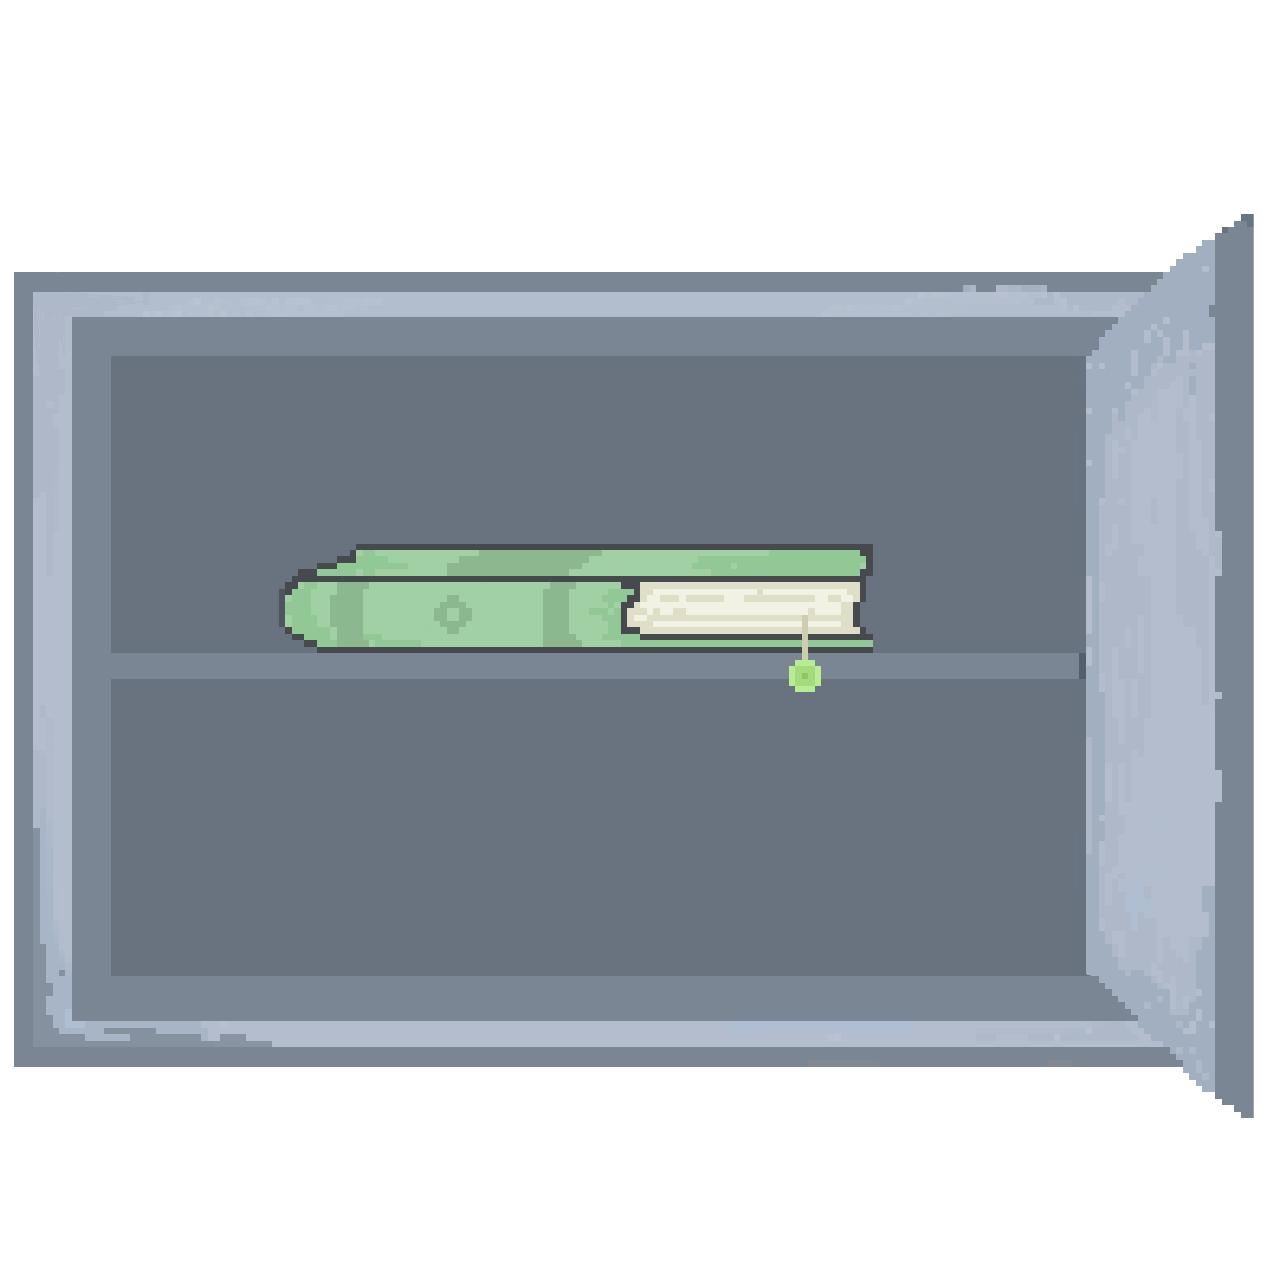
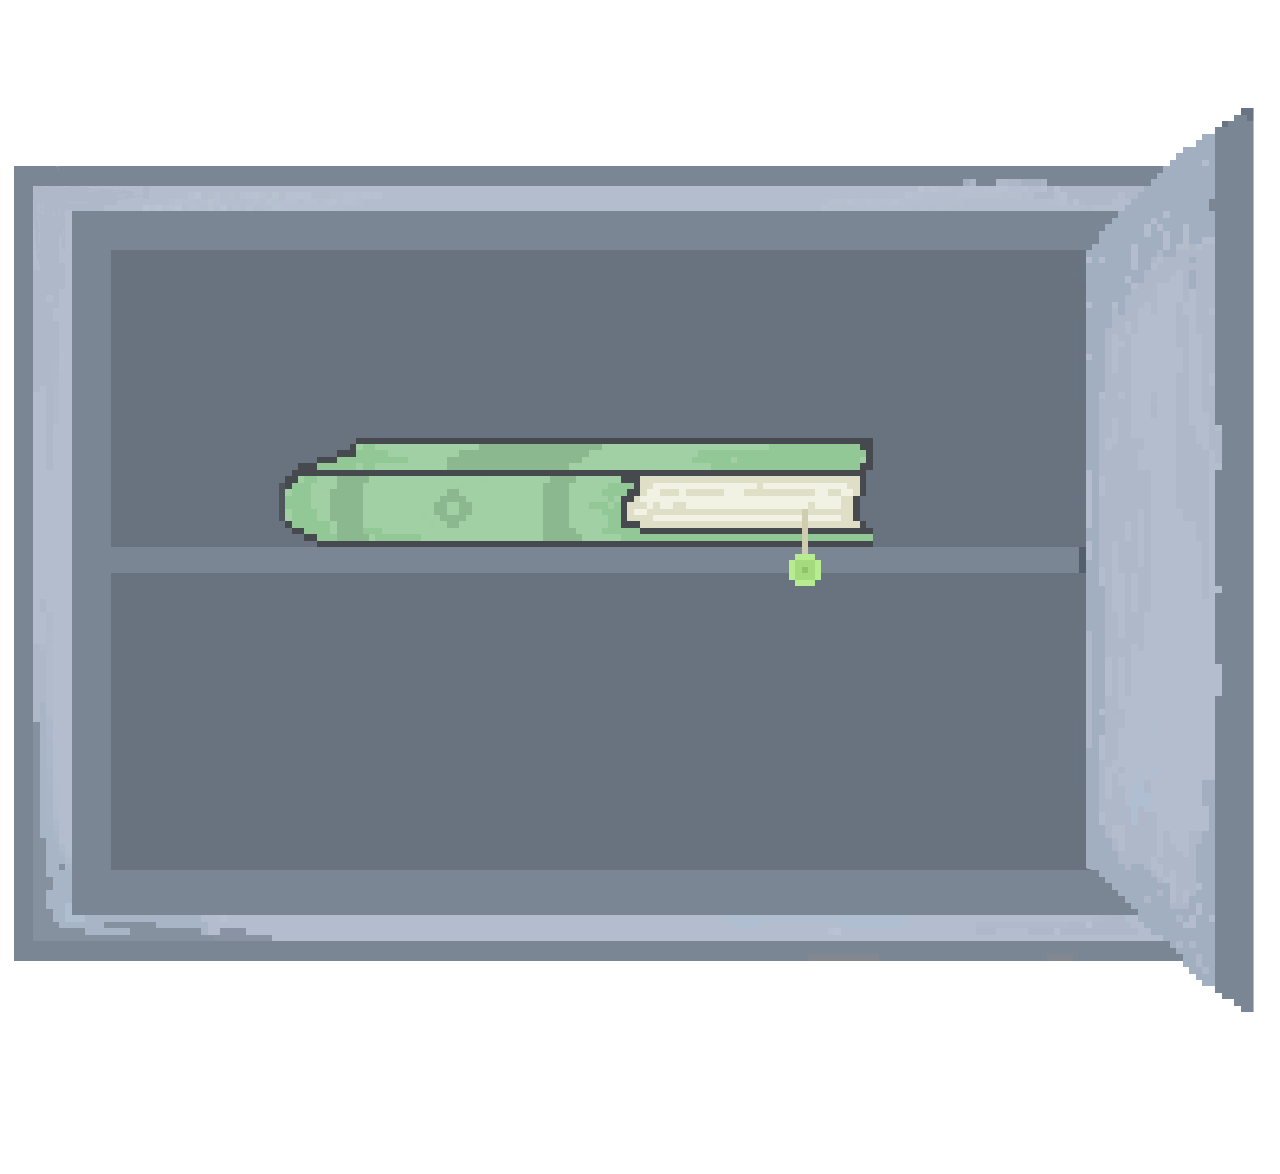
completed safe interactions

diff --git a/dist/clovers.html b/dist/clovers.html
@@ -4,7 +4,7 @@
     function launchApplication(jnlpfile) {
         dtjava.launch(            {
                 url : 'clovers.jnlp',
[2 lines of base64/hex data omitted]
             },
             {
                 javafx : '8.0+'
@@ -24,7 +24,7 @@
                 placeholder : 'javafx-app-placeholder',
                 width : '800',
                 height : '600',
[2 lines of base64/hex data omitted]
             },
             {
                 javafx : '8.0+'

diff --git a/src/clovers/Clovers.java b/src/clovers/Clovers.java
@@ -182,12 +182,13 @@ public class Clovers extends Application {
         safe.setY(50);
 
         safeInput.setLayoutX(687);
-        safeInput.setLayoutY(194);
+        safeInput.setLayoutY(192);
 
         safeInput.setPrefWidth(119);
         safeInput.setPrefHeight(32);
 
-        safeInput.setStyle("-fx-background-color:transparent;");
+        safeInput.setFont(bFont);
+        safeInput.setStyle("-fx-background-color:#7393B3;-fx-text-fill: white;");
 
         Rectangle dialogue = new Rectangle(250, 470, 800, 160);
         dialogue.setFill(Color.BLACK);
@@ -247,14 +248,27 @@ public class Clovers extends Application {
         timerAnim.getKeyFrames().add(timerFrame);
         timerAnim.setCycleCount(Timeline.INDEFINITE);
         timerAnim.play();
-
+        
+Rectangle safeTest=new Rectangle(196,94);
+ safeTest.setLayoutX(310);
+safeTest.setLayoutY(517);
+        safeTest.setFill(Color.TRANSPARENT);
+        safeTest.setStroke(Color.RED);
+        Rectangle fridge = new Rectangle(838,120,214,484); 
+    
+        fridge.setFill(Color.TRANSPARENT);
+        fridge.setStroke(Color.RED);
+        
+        
         Pane topBar = new Pane(menu, life, life2, life3, timer, timerText);
+       
+    fridge.setLayoutX(838);
+        fridge.setLayoutY(120);
         Pane pane = new Pane();
 
+        //fridge.layoutXProperty().bind(observable);
         pane.getChildren().addAll(imageView, ghost, topBar);
-      
-                               
-        
+
         StackPane stack = new StackPane();
         Pane pane2 = new Pane();
 
@@ -264,6 +278,8 @@ public class Clovers extends Application {
         pane2.getChildren().addAll(prev, polaroid, next);
         stack.getChildren().addAll(pane, topBar);
 
+        
+        
         // stack.setClip(rectangle);
         // stack.setLayoutX(0);
         //  pane.getChildren().addAll(imageView, ghost);
@@ -272,6 +288,7 @@ public class Clovers extends Application {
         scene.setOnMousePressed(e -> {
 
             System.out.println("X: " + e.getX() + "Y: " + e.getY());
+            System.out.println("ghostX: " + ghost.getLayoutX() + "ghostY: " + ghost.getLayoutY());
         });
 
         b1.setOnAction(e2 -> {
@@ -305,6 +322,37 @@ public class Clovers extends Application {
             safeInput.setText(safeInput.getText() + "0       ");
         });
         GridPane dial = new GridPane();
+
+        dial.addRow(0, b1, b2, b3);
+        dial.addRow(1, b4, b5, b6);
+        // dial.addRow(2, b7, b8, b9);
+        // dial.add(b0, 1, 3);
+
+        dial.setLayoutX(695);
+        dial.setLayoutY(235);
+
+        b0.setLayoutX(738);
+        b0.setLayoutY(359);
+        b7.setLayoutX(696);
+        b7.setLayoutY(322);
+        b8.setLayoutX(738);
+        b8.setLayoutY(322);
+        b9.setLayoutX(780);
+        b9.setLayoutY(322);
+
+        b1.setFont(bFont);
+        b2.setFont(bFont);
+        b3.setFont(bFont);
+        b4.setFont(bFont);
+        b5.setFont(bFont);
+        b6.setFont(bFont);
+        b7.setFont(bFont);
+        b8.setFont(bFont);
+        b9.setFont(bFont);
+        b0.setFont(bFont);
+
+        dial.setHgap(20);
+        dial.setVgap(20);
         scene.setOnKeyPressed(e -> {
 
             switch (e.getCode()) {
@@ -343,64 +391,44 @@ public class Clovers extends Application {
 //                     
 //
 //                    //fridge interaction
-                    if (ghost.getX() >= 430.0 && ghost.getX() <= 680.0 && ghost.getY() <= 250.0 && ghost.getY() >= 0.0) {
+                    if (ghost.getX() + 20 >= 530.0 && ghost.getX() + 20 <= 820.0 && ghost.getY()  <= 523.0 && ghost.getY() >= 120.0) {
+                        //if (ghost.getBoundsInParent().intersects(fridge.getBoundsInParent())) {
                         System.out.println("near fridge");
                         polaroid.setImage(img.get(currentImg));
 
                         stack.getChildren().addAll(pane2);
+                        
+                        stack.getChildren().remove(safeInput);
 
                     }
 //cabinet interaction
-                    if (ghost.getX() >= 50 && ghost.getX() <= 280 && ghost.getY() <= 250 && ghost.getY() >= 230) {
-                        
-                        if (imageView.getImage() != bg && imageView.getImage() == bgCabinet) {//cabinet open
-                             if (safe.getImage() == safeOpen) {//if the safe is open
+                   // if (ghost.getX()+20 >= 50 && ghost.getX()+20 <= 280 && ghost.getY() <= 250 && ghost.getY() >= 230) {
+if (ghost.getBoundsInParent().intersects(safeTest.getBoundsInParent())) {
+//&& imageView.getImage() != bg &&  used to be in this if statmenet down
+                        if (imageView.getImage() == bgCabinet) {//cabinet open
+                            if (safe.getImage() == book) {//remove the pane, end of safe interaction
+                                stack.getChildren().remove(pane3);
+                                safe.setImage(safeWrong);//setting default in case user wants to open it again
+                            }
+                            if (safe.getImage() == safeOpen) {//if the safe is open
                                 safe.setImage(book);
-                                safe.setY(40);
-                                 safe.setX(500);
+                                safe.setY(30);
+                                safe.setX(450);
                                 safe.setFitHeight(410);
                                 safe.setFitWidth(410);
                                 //stack.getChildren().remove(pane3);
+
+                            } else {// if the safe is closed
+                                safe.setImage(safeImg);//show safe
+
+                                pane3.getChildren().addAll(dial, dialogue, b0, b7, b8, b9);
+                                stack.getChildren().add(pane3);
                             }
-                             else{// if the safe is closed
-                            safe.setImage(safeImg);
+//                            if (safe.getImage() == book) {//remove the pane, end of safe interaction
+//                                stack.getChildren().remove(pane3);
+//                            }
 
-                            dial.addRow(0, b1, b2, b3);
-                            dial.addRow(1, b4, b5, b6);
-                            // dial.addRow(2, b7, b8, b9);
-                            // dial.add(b0, 1, 3);
-
-                            dial.setLayoutX(695);
-                            dial.setLayoutY(235);
-
-                            b0.setLayoutX(738);
-                            b0.setLayoutY(359);
-                            b7.setLayoutX(696);
-                            b7.setLayoutY(322);
-                            b8.setLayoutX(738);
-                            b8.setLayoutY(322);
-                            b9.setLayoutX(780);
-                            b9.setLayoutY(322);
-
-                            b1.setFont(bFont);
-                            b2.setFont(bFont);
-                            b3.setFont(bFont);
-                            b4.setFont(bFont);
-                            b5.setFont(bFont);
-                            b6.setFont(bFont);
-                            b7.setFont(bFont);
-                            b8.setFont(bFont);
-                            b9.setFont(bFont);
-                            b0.setFont(bFont);
-
-                            dial.setHgap(20);
-                            dial.setVgap(20);
-                            pane3.getChildren().addAll(dial, dialogue, b0, b7, b8, b9);
-                            stack.getChildren().add(pane3);
-                             }
-                           
-                        } 
-                        else {
+                        } else if (imageView.getImage() == bg) {
                             imageView.setImage(bgCabinet);
                         }
 
@@ -414,26 +442,29 @@ public class Clovers extends Application {
                     }
 
                     if (stack.getChildren().contains(pane3)) {
-                        stack.getChildren().remove(pane3);
+                        stack.getChildren().removeAll(pane3, safeInput);
                     }
 
                 case ENTER:
+//                    
+
                     if (safeInput.getText().equals("1       9       5       8       ")) {
 
                         // safeInput.setStyle("-fx-border-color:green;-fx-border-width:2");
-                        safeInput.setBorder(new Border(new BorderStroke(
-                                Color.GREEN, BorderStrokeStyle.SOLID, CornerRadii.EMPTY, new BorderWidths(3)
-                        )));
+//                       
+                        safe.setY(35);
                         safe.setImage(safeOpen);
+
                         pane3.getChildren().removeAll(dial, b0, b7, b8, b9, safeInput);
-                    } else {
-                        //   safeInput.setStyle("-fx-border-color:red;-fx-border-width:2");
-                        safeInput.setBorder(new Border(new BorderStroke(
-                                Color.RED, BorderStrokeStyle.SOLID, CornerRadii.EMPTY, new BorderWidths(3)
-                        )));
+                    } else {//wrong input
+                        safeInput.setStyle("-fx-border-color:#ff6961;-fx-border-width:2;-fx-background-color:#7393B3;-fx-text-fill: white;-fx-padding:0;");
+                        // safeInput.setStyle("-fx-background-color:grey;-fx-text-fill: green;");
+                        safeInput.setText("");
+//                      
+                          stack.getChildren().add(pane3);
+
                         safe.setImage(safeWrong);
                     }
-
                     break;
 
             }
@@ -471,14 +502,6 @@ public class Clovers extends Application {
         primaryStage.setScene(scene);
         primaryStage.show();
         ghost.requestFocus();
-    }
-
-    public void checkInput() {
-        while (safeInput.getText().equals("1985") == false) {
-            safe.setImage(safeWrong);
-        }
-        safe.setImage(safeOpen);
-
     }
 
     private void scrollBackground(ImageView background, ImageView ghost) {
@@ -519,4 +542,3 @@ public class Clovers extends Application {
     }
 
 }
-//for the cabinet add a loop for invalid answer,fix the x y options for open safe, fix x y positions for te actual book
